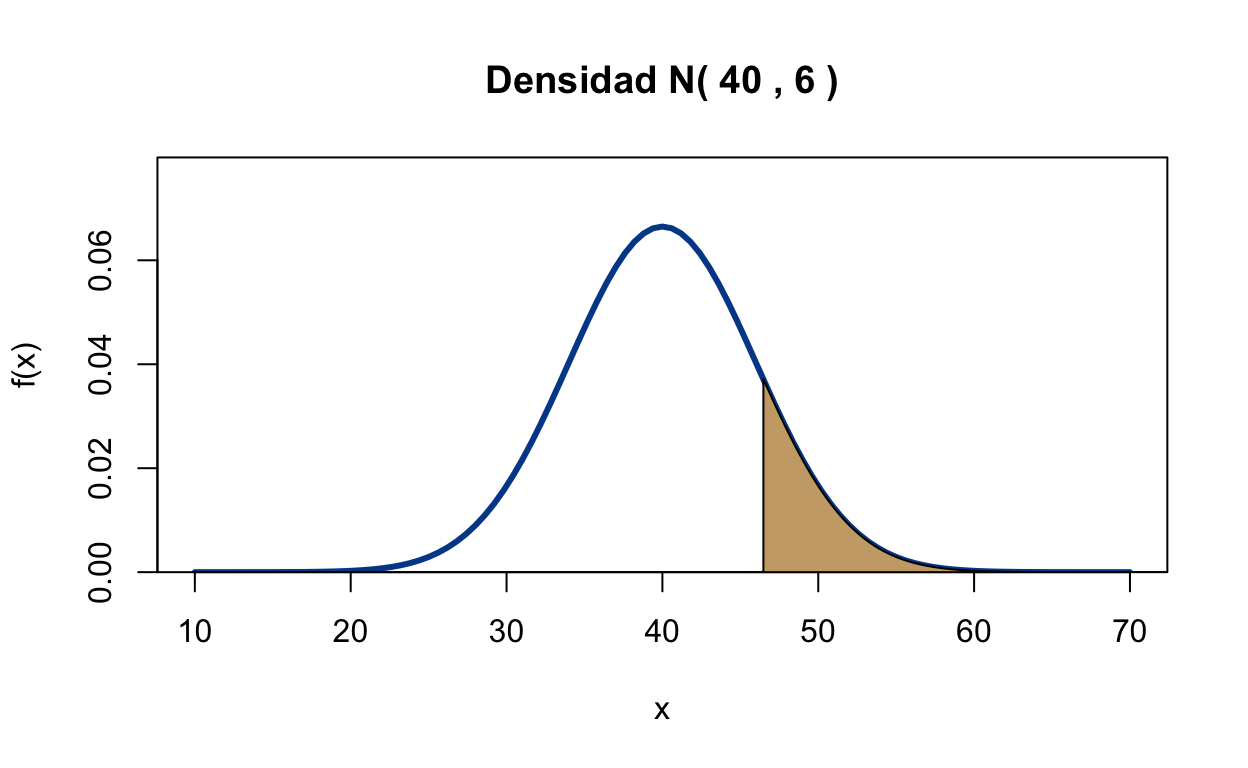
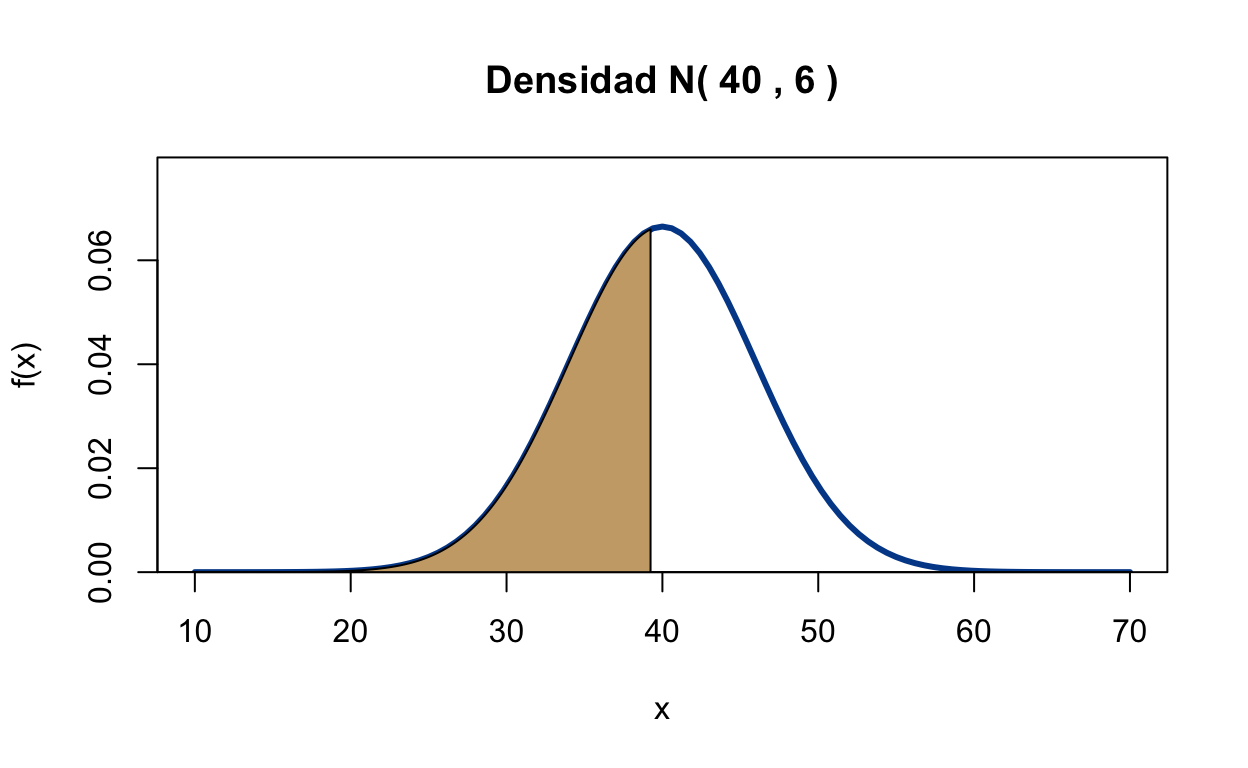
muestra

Changed region(s): [[0.2812, 0.2812, 0.5312, 0.75], [0.5938, 0.5, 0.7812, 0.75]]

diff --git a/docs/clasemuestra.html b/docs/clasemuestra.html
@@ -2246,6 +2246,7 @@ probabilidad</a></li>
 <li><a href="#ejemplo-3">Ejemplo 3</a></li>
 <li><a href="#ejemplo-4">Ejemplo 4</a></li>
 <li><a href="#ejemplo-5">Ejemplo 5</a></li>
+<li><a href="#ejemplo-6">Ejemplo 6</a></li>
 </ul></li>
 </ul></li>
 <li><a href="#portafolio-de-r">Portafolio de R</a></li>
@@ -2265,8 +2266,11 @@ probabilidad</h1>
 <p>En el siguiente <a
 href="https://cran.r-project.org/web/views/Distributions.html">documento</a>
 se describen las distribuciones implementadas en R.</p>
+<p><a
+href="https://drive.google.com/drive/folders/1LpE0OYq7HpSPzh1Ly-6scPgkOHIoGCV2?usp=sharing">Notas
+sobre distribuciones</a></p>
 <h1 id="distribución-normal">Distribución normal</h1>
-<p>Se dice que una variable aleatoria (va) <span
+<p>Se dice que una variable aleatoria (VA) <span
 class="math inline">\(X\)</span>, tiene distribución normal (o se
 distribuye normal) con media <span class="math inline">\(\mu\)</span> y
 desviación estándar <span class="math inline">\(\sigma\)</span>, <span
@@ -2280,8 +2284,8 @@ distribución de probabilidad es</p>
 \,dt=\frac{1}{\sqrt{2 \pi} \sigma}\int_{-\infty}^x e^{-\frac{(t -
 \mu)^2}{2 \sigma^2}}\,dt\]</span></p>
 <h2 id="implementación">Implementación</h2>
-<p>La bilioteca <code>stats</code> cuenta con cuatro prefijos para las
-hacer referencia a funciones relacionadas con las distribuciones.</p>
+<p>La biblioteca <code>stats</code> cuenta con cuatro prefijos que hacen
+referencia a funciones relacionadas con las distribuciones.</p>
 <ul>
 <li><strong>d</strong>: función de densidad o de probabilidad.</li>
 <li><strong>p</strong>: función de distribución</li>
@@ -2297,8 +2301,8 @@ distribución</li>
 <li>rnorm</li>
 </ul>
 <h3 id="ejemplo-1">Ejemplo 1</h3>
-<p>Se ilustra el uso de dichas funciones para una V. A. <span
-class="math inline">\(X\sim N(0,1)\)</span></p>
+<p>Se ilustra el uso de dichas funciones para una VA <span
+class="math inline">\(X\sim \mathcal{N}(0,1)\)</span></p>
 <div class="layout-chunk" data-layout="l-body">
 <div class="sourceCode">
 <pre class="sourceCode r"><code class="sourceCode r"><span class='fu'><a href='https://rdrr.io/r/base/print.html'>print</a></span><span class='op'>(</span><span class='fu'><a href='https://rdrr.io/r/stats/Normal.html'>dnorm</a></span><span class='op'>(</span><span class='fl'>0</span><span class='op'>)</span><span class='op'>)</span>
@@ -2319,7 +2323,7 @@ class="math inline">\(X\sim N(0,1)\)</span></p>
 <pre class="sourceCode r"><code class="sourceCode r"><span class='fu'><a href='https://rdrr.io/r/base/print.html'>print</a></span><span class='op'>(</span><span class='fu'><a href='https://rdrr.io/r/stats/Normal.html'>rnorm</a></span><span class='op'>(</span><span class='fl'>5</span><span class='op'>)</span><span class='op'>)</span>
 </code></pre>
 </div>
-<pre><code>[1] -1.4323872 -0.4526390 -0.1003251  0.6512569  0.3418080</code></pre>
+<pre><code>[1] -0.6309932  1.3402817 -1.0755623  0.7586956  1.7522381</code></pre>
 </div>
 <p>Se realiza la gráfica de la función de densidad y de distribución</p>
 <div class="layout-chunk" data-layout="l-body">
@@ -2339,8 +2343,8 @@ class="math inline">\(X\sim N(0,1)\)</span></p>
 <p><img src="clasemuestra_files/figure-html5/unnamed-chunk-3-1.png" width="624" /></p>
 </div>
 <h3 id="ejemplo-2">Ejemplo 2</h3>
-<p>Ahora para una V. A. <span class="math inline">\(X\sim
-N(10,0.5)\)</span></p>
+<p>Ahora para una VA <span class="math inline">\(X\sim
+\mathcal{N}(10,0.5)\)</span></p>
 <div class="layout-chunk" data-layout="l-body">
 <div class="sourceCode">
 <pre class="sourceCode r"><code class="sourceCode r"><span class='fu'><a href='https://rdrr.io/r/base/print.html'>print</a></span><span class='op'>(</span><span class='fu'><a href='https://rdrr.io/r/stats/Normal.html'>dnorm</a></span><span class='op'>(</span><span class='fl'>10</span>, mean <span class='op'>=</span> <span class='fl'>10</span>, sd <span class='op'>=</span> <span class='fl'>0.5</span><span class='op'>)</span><span class='op'>)</span>
@@ -2361,7 +2365,7 @@ N(10,0.5)\)</span></p>
 <pre class="sourceCode r"><code class="sourceCode r"><span class='fu'><a href='https://rdrr.io/r/base/print.html'>print</a></span><span class='op'>(</span><span class='fu'><a href='https://rdrr.io/r/stats/Normal.html'>rnorm</a></span><span class='op'>(</span><span class='fl'>5</span>, mean <span class='op'>=</span> <span class='fl'>5</span>, sd <span class='op'>=</span> <span class='fl'>0.5</span><span class='op'>)</span><span class='op'>)</span>
 </code></pre>
 </div>
-<pre><code>[1] 4.124168 5.055182 5.307402 5.513935 4.596995</code></pre>
+<pre><code>[1] 5.236517 5.522070 5.151480 5.071919 4.622874</code></pre>
 </div>
 <p>Se realiza la gráfica de la función de densidad y de distribución</p>
 <div class="layout-chunk" data-layout="l-body">
@@ -2381,8 +2385,8 @@ N(10,0.5)\)</span></p>
 <p><img src="clasemuestra_files/figure-html5/unnamed-chunk-6-1.png" width="624" /></p>
 </div>
 <h3 id="ejemplo-3">Ejemplo 3</h3>
-<p>Dada <span class="math inline">\(X\sim N(50,10)\)</span> encuentra la
-probabilidad que asuma los calores entre 45 y 62.</p>
+<p>Dada <span class="math inline">\(X\sim \mathcal{N}(50,10)\)</span>
+encuentra la probabilidad que asuma los calores entre 45 y 62.</p>
 <p>Entonces</p>
 <p><span class="math display">\[P(45&lt;X&lt;62)= P(X\leq 62) - P(X\leq
 45)=F(62)- F(45)\]</span></p>
@@ -2425,34 +2429,83 @@ probabilidad que asuma los calores entre 45 y 62.</p>
 <p><img src="clasemuestra_files/figure-html5/unnamed-chunk-9-1.png" width="624" /></p>
 </div>
 <h3 id="ejemplo-4">Ejemplo 4</h3>
-<p>Dada una VA <span class="math inline">\(X\sim N(40, 6)\)</span>,
-encuentra el valor de <span class="math inline">\(x\)</span> tal que</p>
+<p>Dada una VA <span class="math inline">\(X\sim \mathcal{N}(40,
+6)\)</span>, encuentra el valor de <span
+class="math inline">\(x\)</span> tal que</p>
 <ol type="a">
-<li>El <span class="math inline">\(45%\)</span> del a´rea está a la
+<li>El <span class="math inline">\(45\%\)</span> del área está a la
 izquierda de <span class="math inline">\(x\)</span></li>
-<li>El <span class="math inline">\(14%\)</span> del área está a la
+<li>El <span class="math inline">\(14\%\)</span> del área está a la
 derecha de <span class="math inline">\(x\)</span></li>
 </ol>
+<p>Para el inciso a se observa que la solución coincide directamente con
+la definición de cuantil</p>
+<div class="layout-chunk" data-layout="l-body">
+<div class="sourceCode">
+<pre class="sourceCode r"><code class="sourceCode r"><span class='fu'><a href='https://rdrr.io/r/stats/Normal.html'>qnorm</a></span><span class='op'>(</span><span class='fl'>0.45</span>, mean <span class='op'>=</span> <span class='fl'>40</span>, sd <span class='op'>=</span> <span class='fl'>6</span><span class='op'>)</span>
+</code></pre>
+</div>
+<pre><code>[1] 39.24603</code></pre>
+</div>
 <div class="layout-chunk" data-layout="l-body">
 <div class="sourceCode">
 <pre class="sourceCode r"><code class="sourceCode r"><span class='fu'>proba_gra</span><span class='op'>(</span><span class='op'>-</span><span class='fl'>100</span>, <span class='fl'>39.24</span>, mean <span class='op'>=</span> <span class='fl'>40</span>, sd <span class='op'>=</span> <span class='fl'>6</span><span class='op'>)</span>
 </code></pre>
 </div>
-<p><img src="clasemuestra_files/figure-html5/unnamed-chunk-10-1.png" width="624" /></p>
+<p><img src="clasemuestra_files/figure-html5/unnamed-chunk-11-1.png" width="624" /></p>
+</div>
+<p>Para el inciso b se toma el complemento del área para utilizar el
+cuantil</p>
+<div class="layout-chunk" data-layout="l-body">
+<div class="sourceCode">
+<pre class="sourceCode r"><code class="sourceCode r"><span class='fu'><a href='https://rdrr.io/r/stats/Normal.html'>qnorm</a></span><span class='op'>(</span><span class='fl'>1</span><span class='op'>-</span><span class='fl'>0.14</span>, mean <span class='op'>=</span> <span class='fl'>40</span>, sd <span class='op'>=</span> <span class='fl'>6</span><span class='op'>)</span>
+</code></pre>
+</div>
+<pre><code>[1] 46.48192</code></pre>
 </div>
 <div class="layout-chunk" data-layout="l-body">
 <div class="sourceCode">
 <pre class="sourceCode r"><code class="sourceCode r"><span class='fu'>proba_gra</span><span class='op'>(</span><span class='fl'>46.48</span>, <span class='fl'>100</span>, mean <span class='op'>=</span> <span class='fl'>40</span>, sd <span class='op'>=</span> <span class='fl'>6</span><span class='op'>)</span>
 </code></pre>
 </div>
-<p><img src="clasemuestra_files/figure-html5/unnamed-chunk-11-1.png" width="624" /></p>
+<p><img src="clasemuestra_files/figure-html5/unnamed-chunk-13-1.png" width="624" /></p>
 </div>
 <h3 id="ejemplo-5">Ejemplo 5</h3>
+<p>Simulamos datos que tengan distribución normal estándar</p>
 <div class="layout-chunk" data-layout="l-body">
 <div class="sourceCode">
 <pre class="sourceCode r"><code class="sourceCode r"><span class='va'>datos</span> <span class='op'>&lt;-</span> <span class='fu'><a href='https://rdrr.io/r/stats/Normal.html'>rnorm</a></span><span class='op'>(</span>n<span class='op'>=</span><span class='fl'>10000</span>, mean<span class='op'>=</span><span class='fl'>0</span>, sd<span class='op'>=</span><span class='fl'>1</span><span class='op'>)</span>
-
-<span class='fu'><a href='https://rdrr.io/r/graphics/hist.html'>hist</a></span><span class='op'>(</span><span class='va'>datos</span>, 
+<span class='fu'><a href='https://rdrr.io/r/graphics/plot.default.html'>plot</a></span><span class='op'>(</span><span class='va'>datos</span>, col <span class='op'>=</span> <span class='st'>"#004A97"</span>, cex <span class='op'>=</span> <span class='fl'>0.3</span>, pch<span class='op'>=</span><span class='fl'>19</span><span class='op'>)</span>
+</code></pre>
+</div>
+<p><img src="clasemuestra_files/figure-html5/unnamed-chunk-14-1.png" width="624" /></p>
+</div>
+<p>Se pueden pensar que estos datos se obtuvieron de realizar la
+medición de un variable <span class="math inline">\(X\)</span>. Se
+gráfican los 10000 datos en el eje horizontal</p>
+<div class="layout-chunk" data-layout="l-body">
+<div class="sourceCode">
+<pre class="sourceCode r"><code class="sourceCode r"><span class='fu'><a href='https://rdrr.io/r/graphics/plot.default.html'>plot</a></span><span class='op'>(</span><span class='va'>datos</span>,<span class='fu'><a href='https://rdrr.io/r/base/rep.html'>rep</a></span><span class='op'>(</span><span class='fl'>0</span>,<span class='fl'>10000</span><span class='op'>)</span>, col <span class='op'>=</span> <span class='st'>"#004A97"</span>, cex <span class='op'>=</span> <span class='fl'>0.5</span>, pch<span class='op'>=</span><span class='fl'>19</span>,
+     ylab <span class='op'>=</span> <span class='st'>""</span><span class='op'>)</span>
+</code></pre>
+</div>
+<p><img src="clasemuestra_files/figure-html5/unnamed-chunk-15-1.png" width="624" /></p>
+</div>
+<p>Generamos el histograma de estos datos</p>
+<div class="layout-chunk" data-layout="l-body">
+<div class="sourceCode">
+<pre class="sourceCode r"><code class="sourceCode r"><span class='fu'><a href='https://rdrr.io/r/graphics/hist.html'>hist</a></span><span class='op'>(</span><span class='va'>datos</span>, 
+     main <span class='op'>=</span> <span class='st'>"Histograma"</span>, ylim <span class='op'>=</span> <span class='fu'><a href='https://rdrr.io/r/base/c.html'>c</a></span><span class='op'>(</span><span class='fl'>0</span>,<span class='fl'>2000</span><span class='op'>)</span>,
+     ylab <span class='op'>=</span> <span class='st'>""</span>, col <span class='op'>=</span> <span class='st'>"#CAA977"</span>, xlim <span class='op'>=</span> <span class='fu'><a href='https://rdrr.io/r/base/c.html'>c</a></span><span class='op'>(</span><span class='op'>-</span><span class='fl'>5</span>, <span class='fl'>5</span><span class='op'>)</span><span class='op'>)</span>
+</code></pre>
+</div>
+<p><img src="clasemuestra_files/figure-html5/unnamed-chunk-16-1.png" width="624" /></p>
+</div>
+<p>Podemos pensar que estos datos tienen un distribución normal (bajo la
+suposición no sabíamos que distribución tenían)</p>
+<div class="layout-chunk" data-layout="l-body">
+<div class="sourceCode">
+<pre class="sourceCode r"><code class="sourceCode r"><span class='fu'><a href='https://rdrr.io/r/graphics/hist.html'>hist</a></span><span class='op'>(</span><span class='va'>datos</span>, 
      main <span class='op'>=</span> <span class='st'>"Función de densidad normal e histograma"</span>,
      ylab <span class='op'>=</span> <span class='st'>""</span>, col <span class='op'>=</span> <span class='st'>"#CAA977"</span>, xlim <span class='op'>=</span> <span class='fu'><a href='https://rdrr.io/r/base/c.html'>c</a></span><span class='op'>(</span><span class='op'>-</span><span class='fl'>5</span>, <span class='fl'>5</span><span class='op'>)</span>, freq <span class='op'>=</span> <span class='cn'>FALSE</span><span class='op'>)</span>
 
@@ -2464,8 +2517,12 @@ derecha de <span class="math inline">\(x\)</span></li>
       add <span class='op'>=</span> <span class='cn'>TRUE</span><span class='op'>)</span>
 </code></pre>
 </div>
-<p><img src="clasemuestra_files/figure-html5/unnamed-chunk-12-1.png" width="624" /></p>
+<p><img src="clasemuestra_files/figure-html5/unnamed-chunk-17-1.png" width="624" /></p>
 </div>
+<h3 id="ejemplo-6">Ejemplo 6</h3>
+<p>Crea una función para realizar graficas de densidades normales,
+utiliza la biblioteca de <code>gggplot2</code></p>
+<p>Cargamos la biblioteca</p>
 <div class="layout-chunk" data-layout="l-body">
 <div class="sourceCode">
 <pre class="sourceCode r"><code class="sourceCode r"><span class='kw'><a href='https://rdrr.io/r/base/library.html'>library</a></span><span class='op'>(</span><span class='va'><a href='https://ggplot2.tidyverse.org'>ggplot2</a></span><span class='op'>)</span>
@@ -2474,26 +2531,18 @@ derecha de <span class="math inline">\(x\)</span></li>
 </div>
 <div class="layout-chunk" data-layout="l-body">
 <div class="sourceCode">
-<pre class="sourceCode r"><code class="sourceCode r"><span class='va'>peso_beta3</span><span class='op'>&lt;-</span><span class='kw'>function</span><span class='op'>(</span><span class='va'>tao</span>,<span class='va'>lam</span>,<span class='va'>code</span><span class='op'>=</span><span class='fl'>0</span><span class='op'>)</span><span class='op'>{</span>
+<pre class="sourceCode r"><code class="sourceCode r"><span class='va'>proba_gra_gg</span> <span class='op'>&lt;-</span><span class='kw'>function</span><span class='op'>(</span><span class='va'>mean</span>,<span class='va'>sd</span><span class='op'>)</span><span class='op'>{</span>
+  <span class='va'>base</span> <span class='op'>&lt;-</span> <span class='fu'><a href='https://ggplot2.tidyverse.org/reference/ggplot.html'>ggplot</a></span><span class='op'>(</span><span class='op'>)</span> <span class='op'>+</span> <span class='fu'><a href='https://ggplot2.tidyverse.org/reference/lims.html'>xlim</a></span><span class='op'>(</span><span class='va'>mean</span><span class='op'>-</span><span class='fl'>5</span><span class='op'>*</span><span class='va'>sd</span>, <span class='va'>mean</span> <span class='op'>+</span> <span class='fl'>5</span><span class='op'>*</span><span class='va'>sd</span><span class='op'>)</span>
   
-  <span class='kw'>if</span><span class='op'>(</span><span class='va'>code</span><span class='op'>==</span><span class='fl'>1</span><span class='op'>)</span><span class='op'>{</span>
-    <span class='va'>w2</span><span class='op'>&lt;-</span><span class='op'>(</span><span class='fl'>1</span><span class='op'>-</span><span class='fu'><a href='https://rdrr.io/r/base/Log.html'>exp</a></span><span class='op'>(</span><span class='op'>-</span><span class='va'>lam</span><span class='op'>*</span><span class='va'>tao</span><span class='op'>)</span><span class='op'>)</span><span class='op'>/</span><span class='op'>(</span><span class='va'>lam</span><span class='op'>*</span><span class='va'>tao</span><span class='op'>)</span>
-  <span class='va'>w2</span><span class='op'>&lt;-</span> <span class='va'>w2</span><span class='op'>-</span><span class='fu'><a href='https://rdrr.io/r/base/Log.html'>exp</a></span><span class='op'>(</span><span class='op'>-</span><span class='va'>lam</span><span class='op'>*</span><span class='va'>tao</span><span class='op'>)</span>
-  <span class='kw'><a href='https://rdrr.io/r/base/function.html'>return</a></span><span class='op'>(</span><span class='va'>w2</span><span class='op'>)</span>
-  <span class='op'>}</span>
-  
-  
-  <span class='va'>tao</span><span class='op'>&lt;-</span><span class='fu'><a href='https://rdrr.io/r/base/seq.html'>seq</a></span><span class='op'>(</span><span class='fl'>0</span>,<span class='va'>tao</span>,<span class='fl'>0.01</span><span class='op'>)</span>
-  
-  <span class='va'>w2</span><span class='op'>&lt;-</span><span class='op'>(</span><span class='fl'>1</span><span class='op'>-</span><span class='fu'><a href='https://rdrr.io/r/base/Log.html'>exp</a></span><span class='op'>(</span><span class='op'>-</span><span class='va'>lam</span><span class='op'>*</span><span class='va'>tao</span><span class='op'>)</span><span class='op'>)</span><span class='op'>/</span><span class='op'>(</span><span class='va'>lam</span><span class='op'>*</span><span class='va'>tao</span><span class='op'>)</span>
-  <span class='va'>w2</span><span class='op'>[</span><span class='fl'>1</span><span class='op'>]</span><span class='op'>&lt;-</span><span class='fl'>1</span>
-  <span class='va'>w2</span><span class='op'>&lt;-</span> <span class='va'>w2</span><span class='op'>-</span><span class='fu'><a href='https://rdrr.io/r/base/Log.html'>exp</a></span><span class='op'>(</span><span class='op'>-</span><span class='va'>lam</span><span class='op'>*</span><span class='va'>tao</span><span class='op'>)</span>
-  <span class='va'>eti</span><span class='op'>&lt;-</span><span class='st'>"hola"</span>
-  <span class='fu'><a href='https://ggplot2.tidyverse.org/reference/ggplot.html'>ggplot</a></span><span class='op'>(</span><span class='fu'><a href='https://rdrr.io/r/base/data.frame.html'>data.frame</a></span><span class='op'>(</span>tao<span class='op'>=</span><span class='va'>tao</span>,w2<span class='op'>=</span><span class='va'>w2</span><span class='op'>)</span>,<span class='fu'><a href='https://ggplot2.tidyverse.org/reference/aes.html'>aes</a></span><span class='op'>(</span>x<span class='op'>=</span><span class='va'>tao</span>, y <span class='op'>=</span> <span class='va'>w2</span><span class='op'>)</span><span class='op'>)</span> <span class='op'>+</span> 
- <span class='fu'><a href='https://ggplot2.tidyverse.org/reference/geom_path.html'>geom_line</a></span><span class='op'>(</span>col<span class='op'>=</span><span class='st'>"red"</span><span class='op'>)</span><span class='op'>+</span><span class='fu'><a href='https://ggplot2.tidyverse.org/reference/ggtheme.html'>theme_bw</a></span><span class='op'>(</span><span class='op'>)</span><span class='op'>+</span>
-    <span class='fu'><a href='https://ggplot2.tidyverse.org/reference/labs.html'>labs</a></span><span class='op'>(</span>title <span class='op'>=</span> <span class='st'>"Carga del factor de mediano plazo"</span>,
-         subtitle <span class='op'>=</span>  <span class='fu'><a href='https://rdrr.io/r/base/paste.html'>paste</a></span><span class='op'>(</span><span class='st'>"Valor de la tasa:"</span>,<span class='fu'><a href='https://rdrr.io/r/base/character.html'>as.character</a></span><span class='op'>(</span><span class='va'>lam</span><span class='op'>)</span><span class='op'>)</span><span class='op'>)</span> <span class='op'>+</span> 
-  <span class='fu'><a href='https://ggplot2.tidyverse.org/reference/labs.html'>xlab</a></span><span class='op'>(</span><span class='st'>" (Valor de vencimiento en meses)"</span><span class='op'>)</span>  <span class='op'>+</span> <span class='fu'><a href='https://ggplot2.tidyverse.org/reference/labs.html'>ylab</a></span><span class='op'>(</span><span class='st'>"Carga"</span><span class='op'>)</span> <span class='op'>+</span>
+  <span class='va'>base</span> <span class='op'>+</span> <span class='fu'><a href='https://ggplot2.tidyverse.org/reference/geom_function.html'>geom_function</a></span><span class='op'>(</span>fun <span class='op'>=</span> <span class='va'>dnorm</span>,
+                       args <span class='op'>=</span> <span class='fu'><a href='https://rdrr.io/r/base/list.html'>list</a></span><span class='op'>(</span>mean <span class='op'>=</span> <span class='va'>mean</span>, sd <span class='op'>=</span> <span class='va'>sd</span><span class='op'>)</span>,
+                       colour <span class='op'>=</span> <span class='st'>"#004A97"</span><span class='op'>)</span> <span class='op'>+</span> <span class='fu'><a href='https://ggplot2.tidyverse.org/reference/ggtheme.html'>theme_bw</a></span><span class='op'>(</span><span class='op'>)</span> <span class='op'>+</span>
+    <span class='fu'><a href='https://ggplot2.tidyverse.org/reference/labs.html'>labs</a></span><span class='op'>(</span>title <span class='op'>=</span> <span class='st'>"Función de densidad normal"</span>,
+         subtitle <span class='op'>=</span>  <span class='fu'><a href='https://rdrr.io/r/base/paste.html'>paste</a></span><span class='op'>(</span><span class='st'>"Media:"</span>,
+                           <span class='fu'><a href='https://rdrr.io/r/base/character.html'>as.character</a></span><span class='op'>(</span><span class='va'>mean</span><span class='op'>)</span>,
+                           <span class='st'>"Desviación estándar:"</span>,
+                           <span class='fu'><a href='https://rdrr.io/r/base/character.html'>as.character</a></span><span class='op'>(</span><span class='va'>sd</span><span class='op'>)</span><span class='op'>)</span><span class='op'>)</span> <span class='op'>+</span> 
+    <span class='fu'><a href='https://ggplot2.tidyverse.org/reference/labs.html'>xlab</a></span><span class='op'>(</span><span class='st'>"x"</span><span class='op'>)</span>  <span class='op'>+</span> <span class='fu'><a href='https://ggplot2.tidyverse.org/reference/labs.html'>ylab</a></span><span class='op'>(</span><span class='st'>"f(x)"</span><span class='op'>)</span> <span class='op'>+</span>
     <span class='fu'><a href='https://ggplot2.tidyverse.org/reference/theme.html'>theme</a></span><span class='op'>(</span>plot.title <span class='op'>=</span> <span class='fu'><a href='https://ggplot2.tidyverse.org/reference/element.html'>element_text</a></span><span class='op'>(</span>size <span class='op'>=</span> <span class='fl'>20</span><span class='op'>)</span>,
           plot.subtitle <span class='op'>=</span> <span class='fu'><a href='https://ggplot2.tidyverse.org/reference/element.html'>element_text</a></span><span class='op'>(</span>size <span class='op'>=</span> <span class='fl'>15</span><span class='op'>)</span>,
           axis.title <span class='op'>=</span> <span class='fu'><a href='https://ggplot2.tidyverse.org/reference/element.html'>element_text</a></span><span class='op'>(</span>size <span class='op'>=</span> <span class='fl'>15</span><span class='op'>)</span>,
@@ -2503,11 +2552,17 @@ derecha de <span class="math inline">\(x\)</span></li>
           legend.text <span class='op'>=</span> <span class='fu'><a href='https://ggplot2.tidyverse.org/reference/element.html'>element_text</a></span><span class='op'>(</span>size<span class='op'>=</span><span class='fl'>6</span>, face<span class='op'>=</span><span class='st'>"bold"</span><span class='op'>)</span><span class='op'>)</span>
 
 <span class='op'>}</span>
-
-<span class='fu'>peso_beta3</span><span class='op'>(</span><span class='fl'>120</span>,<span class='fl'>0.0609</span><span class='op'>)</span>
 </code></pre>
 </div>
-<p><img src="clasemuestra_files/figure-html5/unnamed-chunk-14-1.png" width="624" /></p>
+</div>
+<p>Utilizamo al función para hacer la gráfica de una VA <span
+class="math inline">\(X\sim\mathcal{N}(4,0.4)\)</span></p>
+<div class="layout-chunk" data-layout="l-body">
+<div class="sourceCode">
+<pre class="sourceCode r"><code class="sourceCode r"><span class='fu'>proba_gra_gg</span><span class='op'>(</span><span class='fl'>4</span>,<span class='fl'>0.4</span><span class='op'>)</span>
+</code></pre>
+</div>
+<p><img src="clasemuestra_files/figure-html5/unnamed-chunk-20-1.png" width="624" /></p>
 </div>
 <h1 id="portafolio-de-r">Portafolio de R</h1>
 <p><strong>Visualización de COVID y series de tiempo</strong></p>
@@ -2529,7 +2584,7 @@ class="uri">https://rafneta.shinyapps.io/ARMA/</a></p>
 <p><strong>Series de tiempo</strong></p>
 <p><a href="https://rafneta.github.io/STTareas/Tarea2ST.html"
 class="uri">https://rafneta.github.io/STTareas/Tarea2ST.html</a></p>
-<div class="sourceCode" id="cb10"><pre
+<div class="sourceCode" id="cb12"><pre
 class="sourceCode r distill-force-highlighting-css"><code class="sourceCode r"></code></pre></div>
 <!--radix_placeholder_article_footer-->
 <!--/radix_placeholder_article_footer-->
